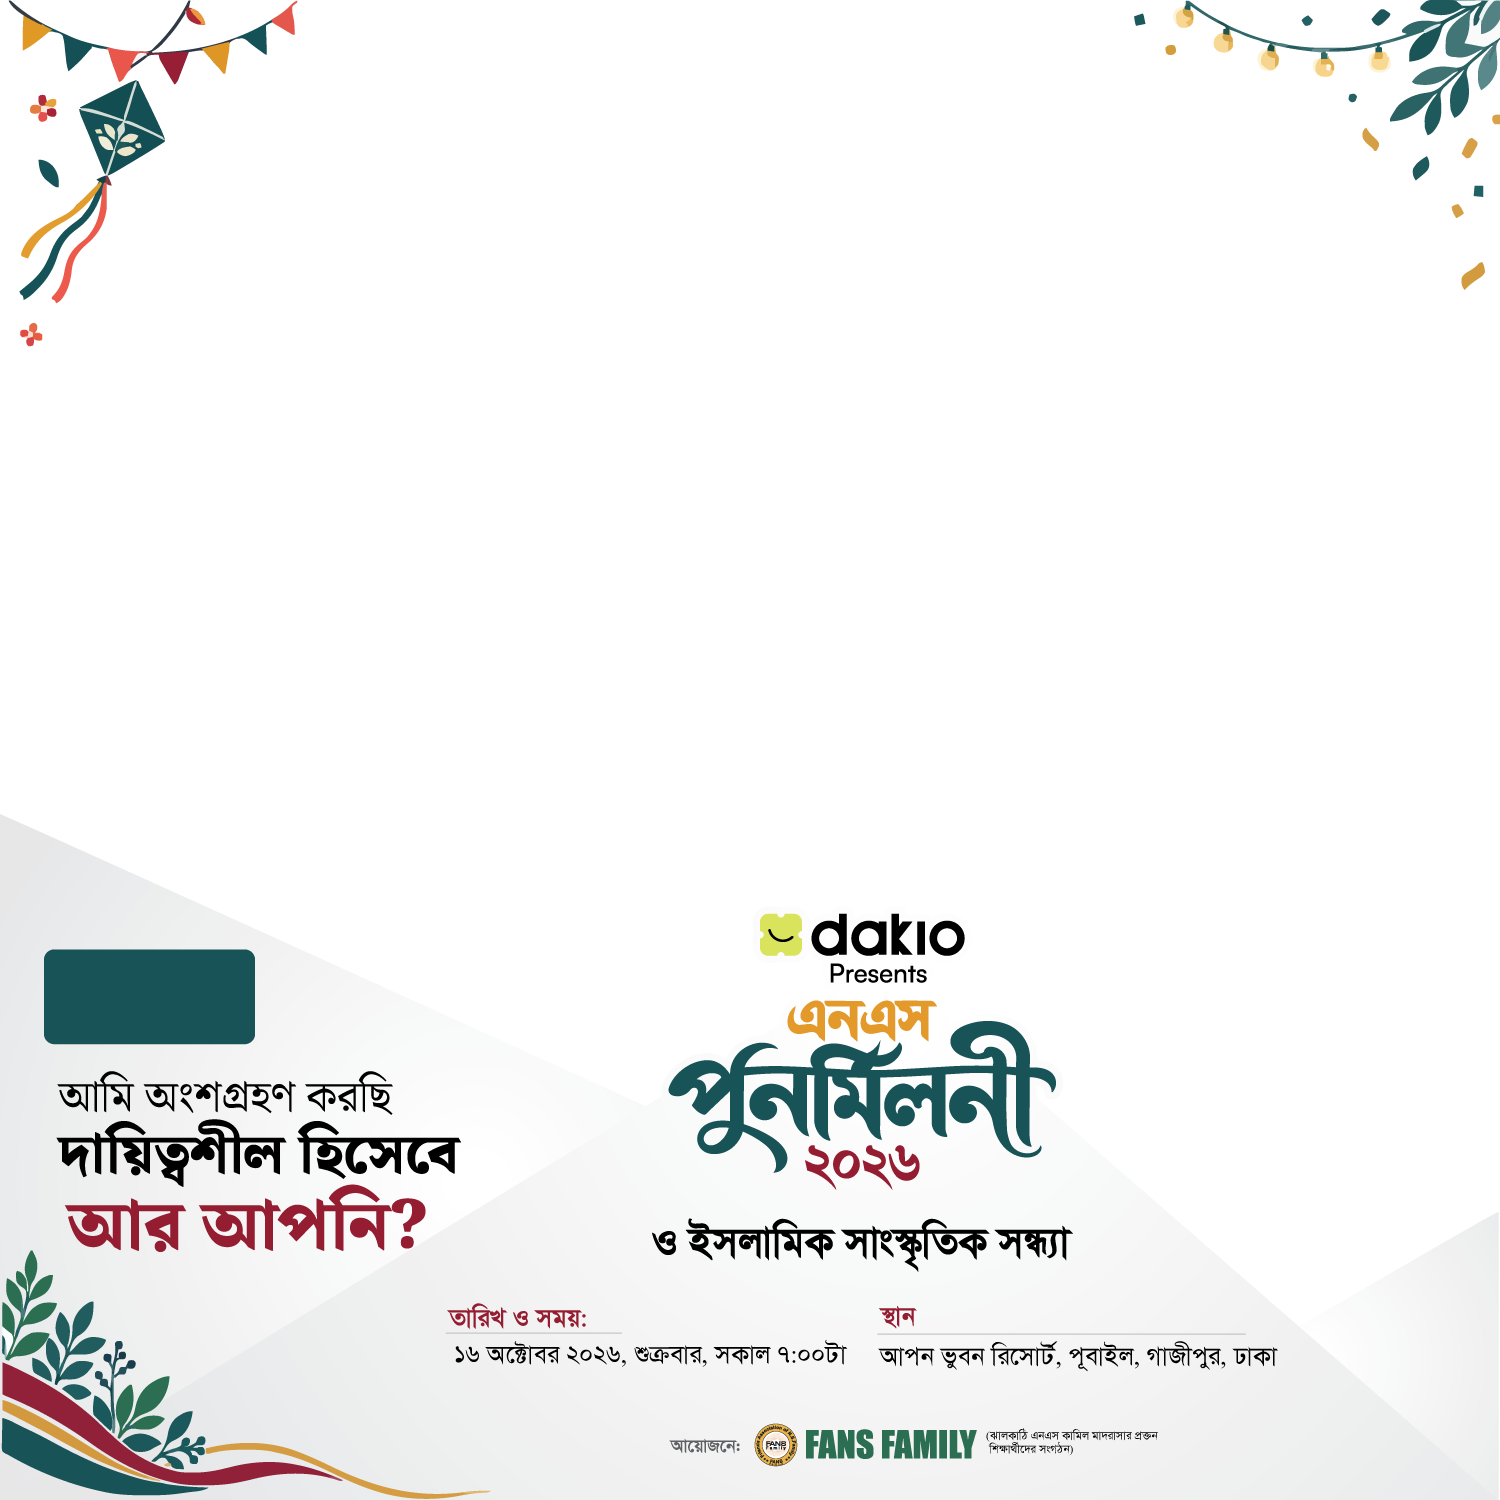
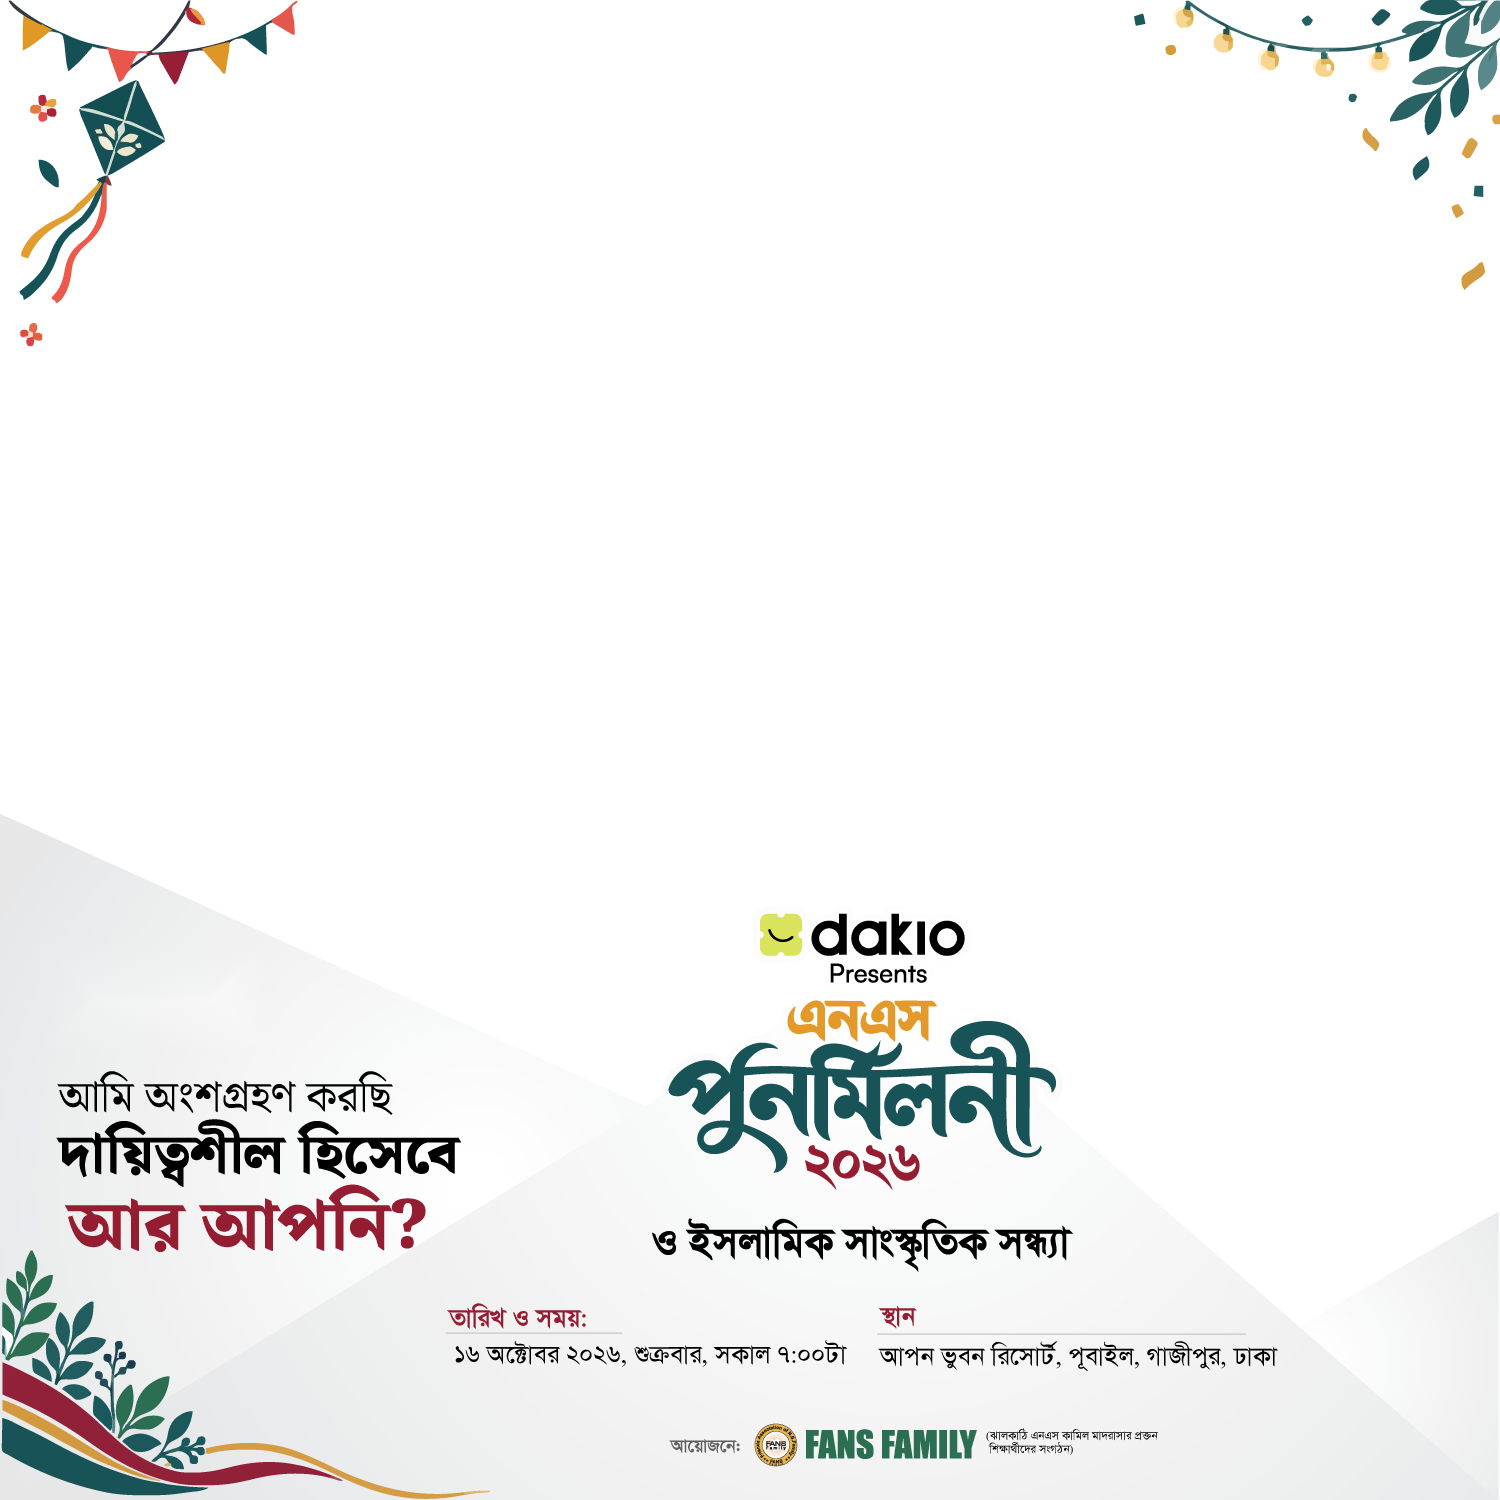
Replace green badge with a flowing bold sentence on all 4 frames
Users aren't only Dakhil — Alim/Fazil batches too — so the field label
goes back to the generic "শিক্ষাবর্ষ লিখুন" (was briefly "দাখিল সাল
লিখুন"). The green "শিক্ষাবর্ষ:" badge box is gone from every frame
(content-aware inpainted out with OpenCV to reconstruct the diagonal
gradient behind it cleanly), and the typed value now renders as bold
black text directly on the frame, auto-suffixed with a fixed " থেকে",
positioned to sit right above each frame's "আমি থাকছি" / "আমি
অংশগ্রহণ করছি" line so it reads as one sentence — e.g. "দাখিল ২০০৫
থেকে আমি থাকছি". Same box geometry reused across all four frames
since the badge sat in the same spot on each.

Changed region(s): [[0.0307, 0.6133, 0.184, 0.7053]]

diff --git a/app/[lang]/nsgettogather26/PhotoFrameClient.jsx b/app/[lang]/nsgettogather26/PhotoFrameClient.jsx
@@ -4,34 +4,16 @@ import { useRef, useState, useEffect } from "react";
 
 const SIZE = 1500;
 
-// Per-frame badge geometry: where the "শিক্ষাবর্ষ:" value goes (left edge,
-// vertical center, max available width) so the typed session text fits
-// inside the same green box the label was printed on in the source PNG.
+// Same text box on every frame: the badge graphic was removed from all four
+// PNGs so the typed session line sits directly above "আমি থাকছি" / "আমি
+// অংশগ্রহণ করছি" and reads as one continuous sentence.
+const SESSION_BOX = { x: 59, bottomY: 1050, width: 430, maxSize: 62, minSize: 26 };
+
 const FRAMES = [
-  {
-    key: "participant",
-    label: "অংশগ্রহণকারী",
-    src: "/assets/nsgettogather26/frames/frame-participant.png",
-    box: { x: 66, centerY: 1015, width: 182, maxSize: 34, minSize: 15 },
-  },
-  {
-    key: "volunteer",
-    label: "স্বেচ্ছাসেবক",
-    src: "/assets/nsgettogather26/frames/frame-volunteer.png",
-    box: { x: 66, centerY: 1015, width: 182, maxSize: 34, minSize: 15 },
-  },
-  {
-    key: "sponsor",
-    label: "স্পন্সর",
-    src: "/assets/nsgettogather26/frames/frame-sponsor.png",
-    box: { x: 66, centerY: 1015, width: 182, maxSize: 34, minSize: 15 },
-  },
-  {
-    key: "organizer",
-    label: "দায়িত্বশীল",
-    src: "/assets/nsgettogather26/frames/frame-organizer.png",
-    box: { x: 66, centerY: 1015, width: 182, maxSize: 34, minSize: 15 },
-  },
+  { key: "participant", label: "অংশগ্রহণকারী", src: "/assets/nsgettogather26/frames/frame-participant.png" },
+  { key: "volunteer", label: "স্বেচ্ছাসেবক", src: "/assets/nsgettogather26/frames/frame-volunteer.png" },
+  { key: "sponsor", label: "স্পন্সর", src: "/assets/nsgettogather26/frames/frame-sponsor.png" },
+  { key: "organizer", label: "দায়িত্বশীল", src: "/assets/nsgettogather26/frames/frame-organizer.png" },
 ];
 
 export default function PhotoFrameClient() {
@@ -59,8 +41,6 @@ export default function PhotoFrameClient() {
     sessionRef.current = session;
   }, [session]);
 
-  const currentFrame = () => FRAMES.find(f => f.key === frameTypeRef.current) || FRAMES[0];
-
   const fitFontSize = (ctx, text, box) => {
     let size = box.maxSize;
     while (size > box.minSize) {
@@ -72,15 +52,16 @@ export default function PhotoFrameClient() {
   };
 
   const drawSessionText = ctx => {
-    const text = sessionRef.current.trim();
-    if (!text) return;
-    const { box } = currentFrame();
+    const typed = sessionRef.current.trim();
+    if (!typed) return;
+    const text = `${typed} থেকে`;
+    const box = SESSION_BOX;
     const size = fitFontSize(ctx, text, box);
     ctx.font = `700 ${size}px 'Archivo','Noto Sans Bengali',sans-serif`;
-    ctx.fillStyle = "#ffffff";
-    ctx.textBaseline = "middle";
+    ctx.fillStyle = "#000000";
+    ctx.textBaseline = "bottom";
     ctx.textAlign = "left";
-    ctx.fillText(text, box.x, box.centerY);
+    ctx.fillText(text, box.x, box.bottomY);
   };
 
   const draw = () => {
@@ -284,17 +265,20 @@ export default function PhotoFrameClient() {
       <div style={styles.controls}>
         <div style={styles.field}>
           <label htmlFor="sessionInput" style={styles.fieldLabel}>
-            দাখিল সাল লিখুন
+            শিক্ষাবর্ষ লিখুন
           </label>
-          <input
-            id="sessionInput"
-            type="text"
-            value={session}
-            onChange={handleSessionChange}
-            placeholder="যেমন: ২০০৫"
-            maxLength={40}
-            style={styles.fieldInput}
-          />
+          <div style={styles.sessionRow}>
+            <input
+              id="sessionInput"
+              type="text"
+              value={session}
+              onChange={handleSessionChange}
+              placeholder="যেমন: দাখিল ২০০৫"
+              maxLength={30}
+              style={styles.fieldInput}
+            />
+            <span style={styles.sessionSuffix}>থেকে</span>
+          </div>
         </div>
 
         <div style={styles.row}>
@@ -441,7 +425,10 @@ const styles = {
     boxShadow: "0 1px 4px rgba(0,0,0,0.06)",
   },
   fieldLabel: { fontSize: 13, color: "#666", fontWeight: 600 },
+  sessionRow: { display: "flex", alignItems: "center", gap: 8 },
   fieldInput: {
+    flex: 1,
+    minWidth: 0,
     border: "1.5px solid #d8dccb",
     borderRadius: 8,
     padding: "10px 12px",
@@ -450,6 +437,7 @@ const styles = {
     color: INK,
     outline: "none",
   },
+  sessionSuffix: { flexShrink: 0, fontSize: 14, fontWeight: 700, color: GREEN },
   row: { display: "flex", gap: 10, flexWrap: "wrap" },
   uploadBtn: {
     flex: "1 1 140px",
